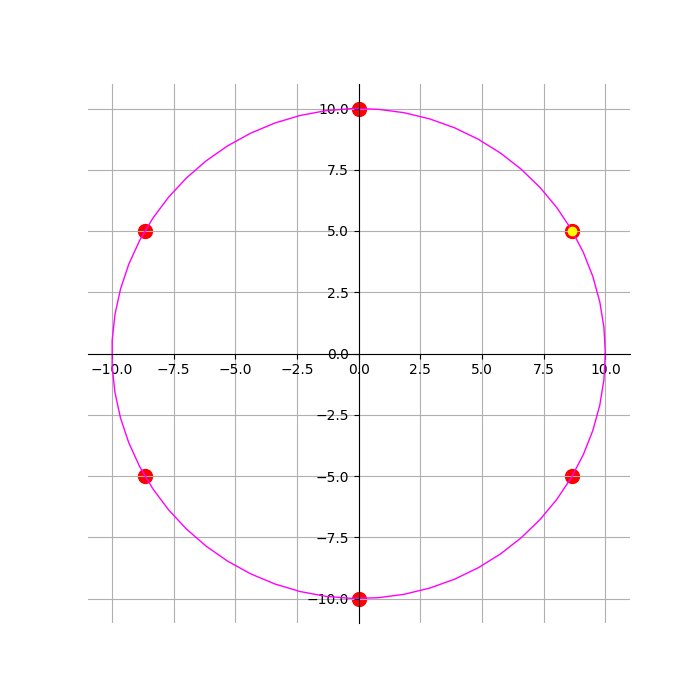
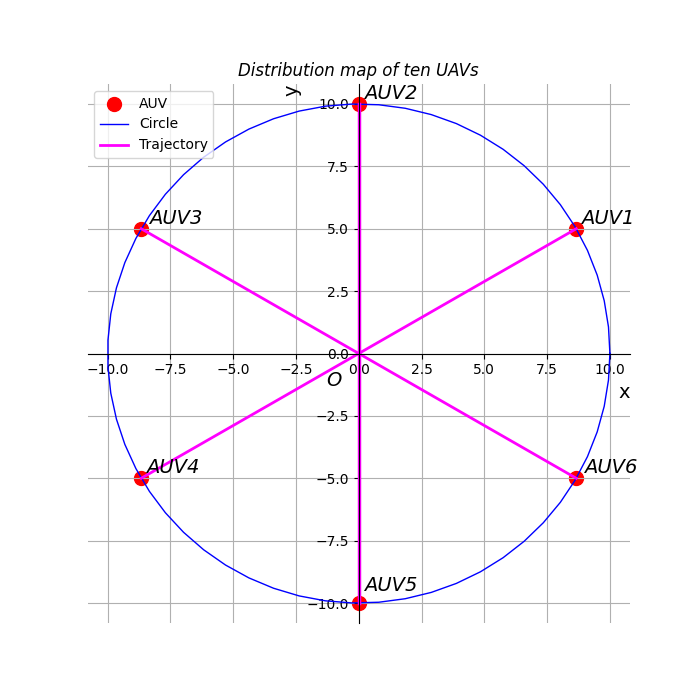
add

diff --git a/Z_my_data/six_UAV_position_data.py b/Z_my_data/six_UAV_position_data.py
@@ -13,22 +13,30 @@ for i in range(6):
     data[i, 1] = 10 * np.sin(alpha[i])
 
 # 将data写入文件,保留10位小数
-
-np.savetxt('circle_exchange_six_data.txt', data, fmt='%.14f', delimiter=' ')
+# np.savetxt('circle_exchange_six_data.txt', data, fmt='%.14f', delimiter=' ')
 
 # 生成圆的数据
-theta = np.linspace(0, 2*np.pi, 60) # 有点误差，画出多出一点点，减去0.15作为修正
+theta = np.linspace(0, 2*np.pi, 60) 
 x_r2 = 10*np.cos(theta)
-y_r2 = 10*np.sin(theta)    # \varphi 的圆弧
+y_r2 = 10*np.sin(theta)
 
 
 # 画图
 fig, ax = plt.subplots(figsize=(7, 7))
-ax.scatter(data[:, 0], data[:, 1], s=100, c='r', marker='o')
+ax.scatter(data[:, 0], data[:, 1], color='red',label='AUV', marker='o', s=100)
+ax.plot(x_r2, y_r2, color="blue", label='Circle', linewidth=1)
+ax.plot([data[0, 0],data[3, 0]], [data[0, 1],data[3, 1]], color="magenta", linewidth=2)
+ax.plot([data[1, 0],data[4, 0]], [data[1, 1],data[4, 1]], color="magenta", linewidth=2.5)
+ax.plot([data[2, 0],data[5, 0]], [data[2, 1],data[5, 1]], color="magenta", label='Trajectory', linewidth=2)
+# ax.plot(data[0, 0], data[0, 1], color="yellow", label='AUV', marker='o')
 
-ax.plot(x_r2, y_r2, color="magenta", label='circle', linewidth=1)
-
-ax.plot(data[0, 0], data[0, 1], color="yellow", label='circle', marker='o')
+ax.text(-1.3, -1.3, 'O', fontsize=14, fontstyle='italic')
+ax.text(data[0, 0]+0.2, data[0, 1]+0.2, 'AUV1', fontsize=14, fontstyle='italic')
+ax.text(data[1, 0]+0.2, data[1, 1]+0.2, 'AUV2', fontsize=14, fontstyle='italic')
+ax.text(data[2, 0]+0.3, data[2, 1]+0.2, 'AUV3', fontsize=14, fontstyle='italic')
+ax.text(data[3, 0]+0.2, data[3, 1]+0.2, 'AUV4', fontsize=14, fontstyle='italic')
+ax.text(data[4, 0]+0.2, data[4, 1]+0.5, 'AUV5', fontsize=14, fontstyle='italic')
+ax.text(data[5, 0]+0.3, data[5, 1]+0.2, 'AUV6', fontsize=14, fontstyle='italic')
 
 # set axis,  把坐标轴移动到中心，并且右，上的两个轴不可见
 ax.spines['right'].set_visible(False)
@@ -36,8 +44,18 @@ ax.spines['top'].set_visible(False)
 ax.spines['left'].set_position(('data', 0)) # data方便一些
 ax.spines['bottom'].set_position(('data', 0))
 
-ax.grid()
+# set label
+ax.set_xlabel('x', loc='right', fontsize=14)  # Add an x-label to the axes.
+ax.set_ylabel('y', loc='top', fontsize=14)  # Add a y-label to the axes.
+ax.set_title("Distribution map of ten UAVs", fontstyle="italic")  # Add a title to the axes.
 
-# plt.savefig('circle_exchange_six') # 需要保存的时候再反注释，否则编译慢
+ax.set_xlim(-10.8, 10.8)
+ax.set_ylim(-10.8, 10.8)
+
+
+ax.grid()
+ax.legend(loc='upper left');  # Add a legend.默认放置再中间，感觉不right啊
+
+plt.savefig('circle_exchange_six') # 需要保存的时候再反注释，否则编译慢
 
 plt.show()

diff --git a/Z_my_data/ten_UAV_position_data.py b/Z_my_data/ten_UAV_position_data.py
@@ -28,8 +28,14 @@ ax.spines['top'].set_visible(False)
 ax.spines['left'].set_position(('data', 0)) # data方便一些
 ax.spines['bottom'].set_position(('data', 0))
 
+# set label
+ax.set_xlabel('x', loc='right', fontsize=14)  # Add an x-label to the axes.
+ax.set_ylabel('y', loc='top', fontsize=14)  # Add a y-label to the axes.
+ax.set_title("Distribution map of ten UAVs", fontstyle="italic")  # Add a title to the axes.
+
+
 ax.grid()   # 感觉好看一些就加了
 
-plt.savefig('circle_exchange_ten') # 需要保存的时候再反注释，否则编译慢
+# plt.savefig('circle_exchange_ten') # 需要保存的时候再反注释，否则编译慢
 
 plt.show()
